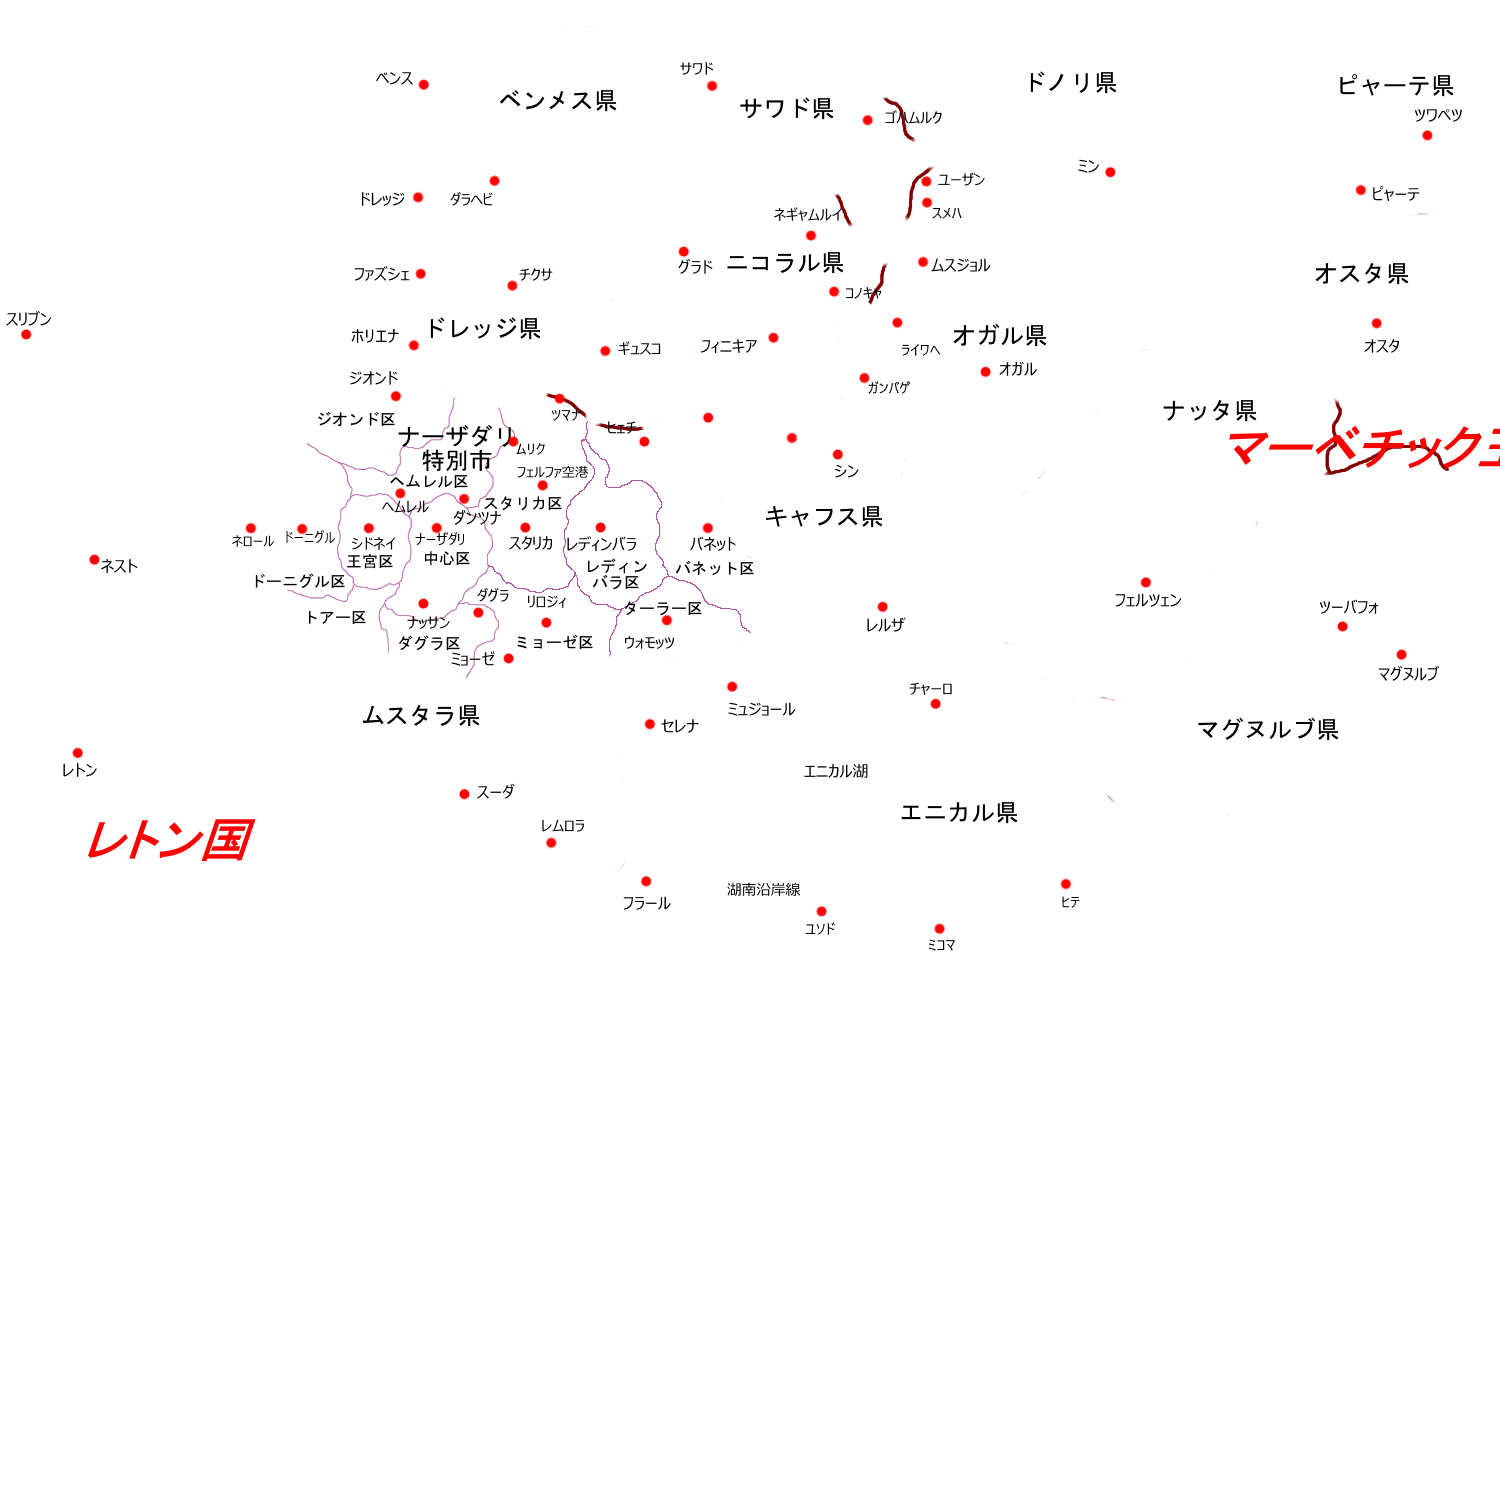
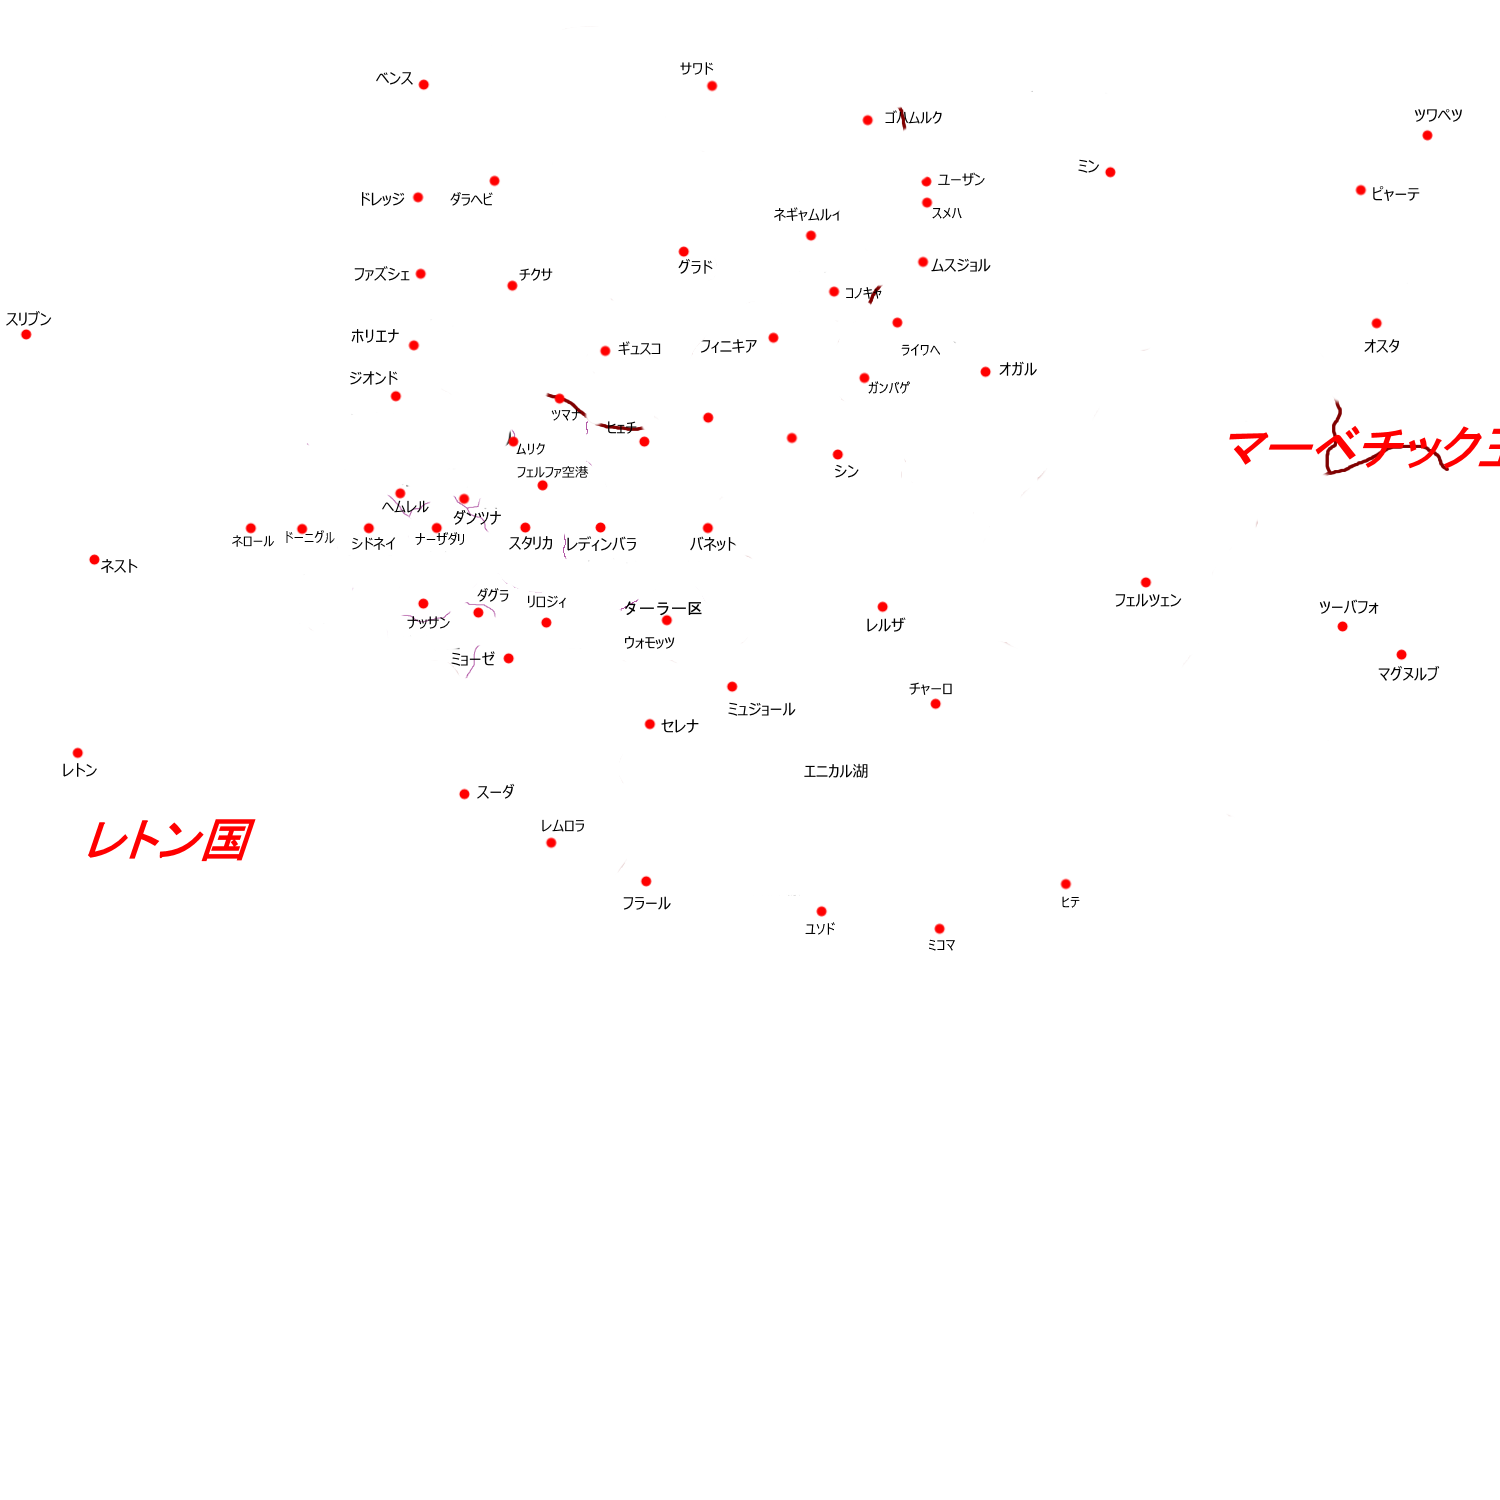
各種更新しました

diff --git a/index.html b/index.html
@@ -4,11 +4,17 @@
     <meta charset="utf-8">
     <script src="https://code.jquery.com/jquery-3.6.0.js" integrity="sha256-H+K7U5CnXl1h5ywQfKtSj8PCmoN9aaq30gDh27Xc0jk=" crossorigin="anonymous"></script>
     <script src="https://cdn.jsdelivr.net/npm/popper.js@1.16.0/dist/umd/popper.min.js" integrity="sha384-Q6E9RHvbIyZFJoft+2mJbHaEWldlvI9IOYy5n3zV9zzTtmI3UksdQRVvoxMfooAo" crossorigin="anonymous"></script>
+
+    <!-- Bootstrap -->
+    <link href="https://cdn.jsdelivr.net/npm/bootstrap@5.0.2/dist/css/bootstrap.min.css" rel="stylesheet" integrity="sha384-EVSTQN3/azprG1Anm3QDgpJLIm9Nao0Yz1ztcQTwFspd3yD65VohhpuuCOmLASjC" crossorigin="anonymous">
     <script src="https://stackpath.bootstrapcdn.com/bootstrap/4.5.0/js/bootstrap.min.js" integrity="sha384-OgVRvuATP1z7JjHLkuOU7Xw704+h835Lr+6QL9UvYjZE3Ipu6Tp75j7Bh/kR0JKI" crossorigin="anonymous"></script>
     <link rel="stylesheet" type="text/css" href="./style.css">
+
+    <!-- Leaflet.js -->
     <link rel="stylesheet" href="https://unpkg.com/leaflet@1.7.1/dist/leaflet.css" />
     <script src="https://unpkg.com/leaflet@1.7.1/dist/leaflet.js"></script><link rel="stylesheet" href="https://stackpath.bootstrapcdn.com/bootstrap/4.5.0/css/bootstrap.min.css" integrity="sha384-9aIt2nRpC12Uk9gS9baDl411NQApFmC26EwAOH8WgZl5MYYxFfc+NcPb1dKGj7Sk" crossorigin="anonymous">
     <script src="https://cdn.jsdelivr.net/npm/vue@2.6.12/dist/vue.js"></script>
+
     <script src="./js/border.js"></script>
     <script src="./js/layer.js"></script>
     <script src="./js/station.js"></script>
@@ -39,10 +45,20 @@
               <button class="btn btn-success" onclick="pushButton.changeRailway()">鉄道路線表示切り替え</button>
               <button class="btn btn-success" onclick="pushButton.changeElevation()">標高表示切り替え</button>
               <button class="btn btn-success" onclick="pushButton.changePlaceName()">地名表示切り替え</button>
-              <button class="btn btn-success" onclick="pushButton.changeDetailRailway()">旧・鉄道詳細路線表示切り替え<br>（ナーザダリ近郊のみ）</button>
-              <button class="btn btn-success" onclick="pushButton.changeStationMarker()">駅マーカー切り替え</button>
-              <button class="btn btn-success" onclick="pushButton.hideLines()">鉄道路線を非表示にする</button>
-              <button class="btn btn-success" onclick="pushButton.showLines()">鉄道路線を表示する</button>
+              <input type="checkbox" class="btn-check" id="change-station-markers" checked autocomplete="off">
+              <label
+                class="btn btn-outline-primary"
+                for="change-station-markers"
+                onclick="pushButton.changeStationMarker()">
+                  駅マーカー切り替え
+              </label>
+              <input type="checkbox" class="btn-check" id="change-show-train-lines" checked autocomplete="off">
+              <label
+                class="btn btn-outline-primary"
+                for="change-show-train-lines"
+                onclick="pushButton.changeShowTrainLines()">
+                  鉄道路線を表示する
+              </label>
             </div>
             <hr/>
             <!-- モード切替 -->

diff --git a/js/border.js b/js/border.js
@@ -19,7 +19,9 @@ class Border {
       label: L.featureGroup()
     }
     const fileList = [
-      'prefecture/mabetic.json'
+      'prefecture/mabetic.json',
+      'city/letn.json',
+      'city/nazadali.json'
     ];
     (async () => {
       this.borderFiles = await Promise.all(
@@ -29,12 +31,49 @@ class Border {
       )
       /** ポリゴン情報を作成する */
       this.makePolygon();
+      /** 名称ラベルを追加する */
+      this.makeNameLabels();
       /** Point情報を作成する */
       this.makePoints();
+      /** 市区町村境界を表示する */
       this.map.addLayer(this.sectionLayers.backend);
     })();
   }
 
+  fixNamleLabelFontSize = (zoom) => {
+    if (zoom < 3) {
+      return "12px";
+    } else if (zoom < 4) {
+      return "14px";
+    } else {
+      return "16px";
+    }
+  }
+
+  makeNameLabels = () => {
+    // 各ファイルに対してforEach
+    this.borderFiles.forEach((file) => {
+      // 各ファイルの行政区分
+      file.forEach((prefecture) => {
+        if(prefecture.name && prefecture.nameLatlng) {
+          const divIcon = L.divIcon({
+            html: prefecture.name,
+            className: 'placeNameIcon',
+            iconSize: [200, 35],
+            iconAnchor: [75, -10]
+          })
+          const marker = L.marker(prefecture.nameLatlng,{
+            icon: divIcon,
+            interactive: false,
+            keyboard: false,
+          })
+          this.sectionLayers.label.addLayer(marker);
+        }
+      })
+    })
+  }
+
+  /** 作成用のPoint情報を作成する */
   makePoints = () => {
     // 各ファイルに対してforEach
     this.borderFiles.forEach((file) => {
@@ -62,17 +101,44 @@ class Border {
     this.borderFiles.forEach((file) => {
       // 各ファイルの行政区分
       file.forEach((prefecture) => {
+        const color = (()=>{
+          switch(prefecture.fillColor) {
+            case 1:
+              return '#ff8c00';
+            case 2:
+              return '#7fffd4';
+            case 3:
+              return '#00bfff';
+            case 4:
+              return '#b22222';
+            default:
+              return prefecture.fillColor;
+          }
+        })()
         const polygon = L.polygon([
           prefecture.polygon
         ],
         {
           color: prefecture.color,
-          fillColor: prefecture.fillColor,
+          fillColor: color,
           fillOpacity: 0.3,
         });
         this.sectionLayers.backend.addLayer(polygon);
       })
     })
+  }
+
+  /**
+   * 市区町村ラベルを表示するか
+   * @param {boolean} isShow 
+   */
+  isShowPrefectureLabel = (isShow) => {
+    if(isShow) {
+      this.map.addLayer(this.sectionLayers.label);
+    }
+    else {
+      this.map.removeLayer(this.sectionLayers.label);
+    }
   }
 
   /** 地方行政区域作成モードがONになる */

diff --git a/js/index.js b/js/index.js
@@ -77,10 +77,16 @@ window.onload = () => {
     resetDistance: map.resetDistanceMarker,
     // 鉄道路線を一つ戻す
     prevPoints: map.prevPoints,
-    // 鉄道路線を非表示にする
-    hideLines: map.station.hideLines,
-    // 鉄道路線を表示する
-    showLines: map.station.showLines,
+    // 鉄道路線の表示を切り替える
+    changeShowTrainLines: ()=>{
+      const isShow = $("#change-show-train-lines").prop("checked");
+      if(isShow) {
+        map.station.showLines();
+      }
+      else {
+        map.station.hideLines();
+      }
+    },
     // 鉄道路線を強調する
     emphasisLine: map.station.emphasisLine
   }

diff --git a/style.css b/style.css
@@ -26,13 +26,25 @@ html,body{
   font-size: 0.75rem !important;
 }
 
-.divicon {
+/** 駅アイコン */
+.stationIcon {
   text-align: center;
   background-color: #FFFFFF;
   border: 'solid 1px';
   border-radius: 10px;
   opacity: 0.8;
   font-size: 12px !important
+}
+
+/** 地名アイコン */
+.placeNameIcon {
+  text-align: center;
+  background-color: #FFFFFF;
+  border: 'solid 1px';
+  border-radius: 10px;
+  opacity: 0.8;
+  font-size: 24px !important;
+  z-index: 1
 }
 
 .lineName {

diff --git a/js/world.js b/js/world.js
@@ -119,6 +119,10 @@ class LeafletMap {
 
   // マップ中をクリックした際に呼ばれるイベント
   onClickMap = (e) => {
+    this.map.eachLayer(((layer) => {
+      console.log(layer);
+    }))
+
     if(['normalMode', 'emphasisLineMode'].includes(this.mode)) {
       return;
     }

diff --git a/js/station.js b/js/station.js
@@ -174,7 +174,7 @@ class Station {
     if(params.label !== '') {
       const divIcon = L.divIcon({
         html: params.label,
-        className: 'divicon',
+        className: 'stationIcon',
         iconSize: [100, 20],
         iconAnchor: [75, -10]
       })
